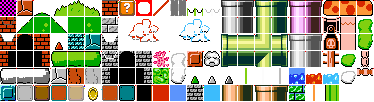
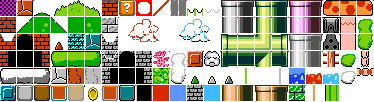
Fire replaced and some more tiles.

diff --git a/README.md b/README.md
@@ -115,6 +115,11 @@ Modified from Fire by Spring Spring
 https://opengameart.org/content/fire-0  
 License: CC0
 
+Fire  
+Modified from Animated Fires by stealthix  
+https://opengameart.org/content/animated-fires  
+License: CC0
+
 ### Sounds
 
 overworld.ogg and overworld-fast.ogg (MainTheme.wav)  
